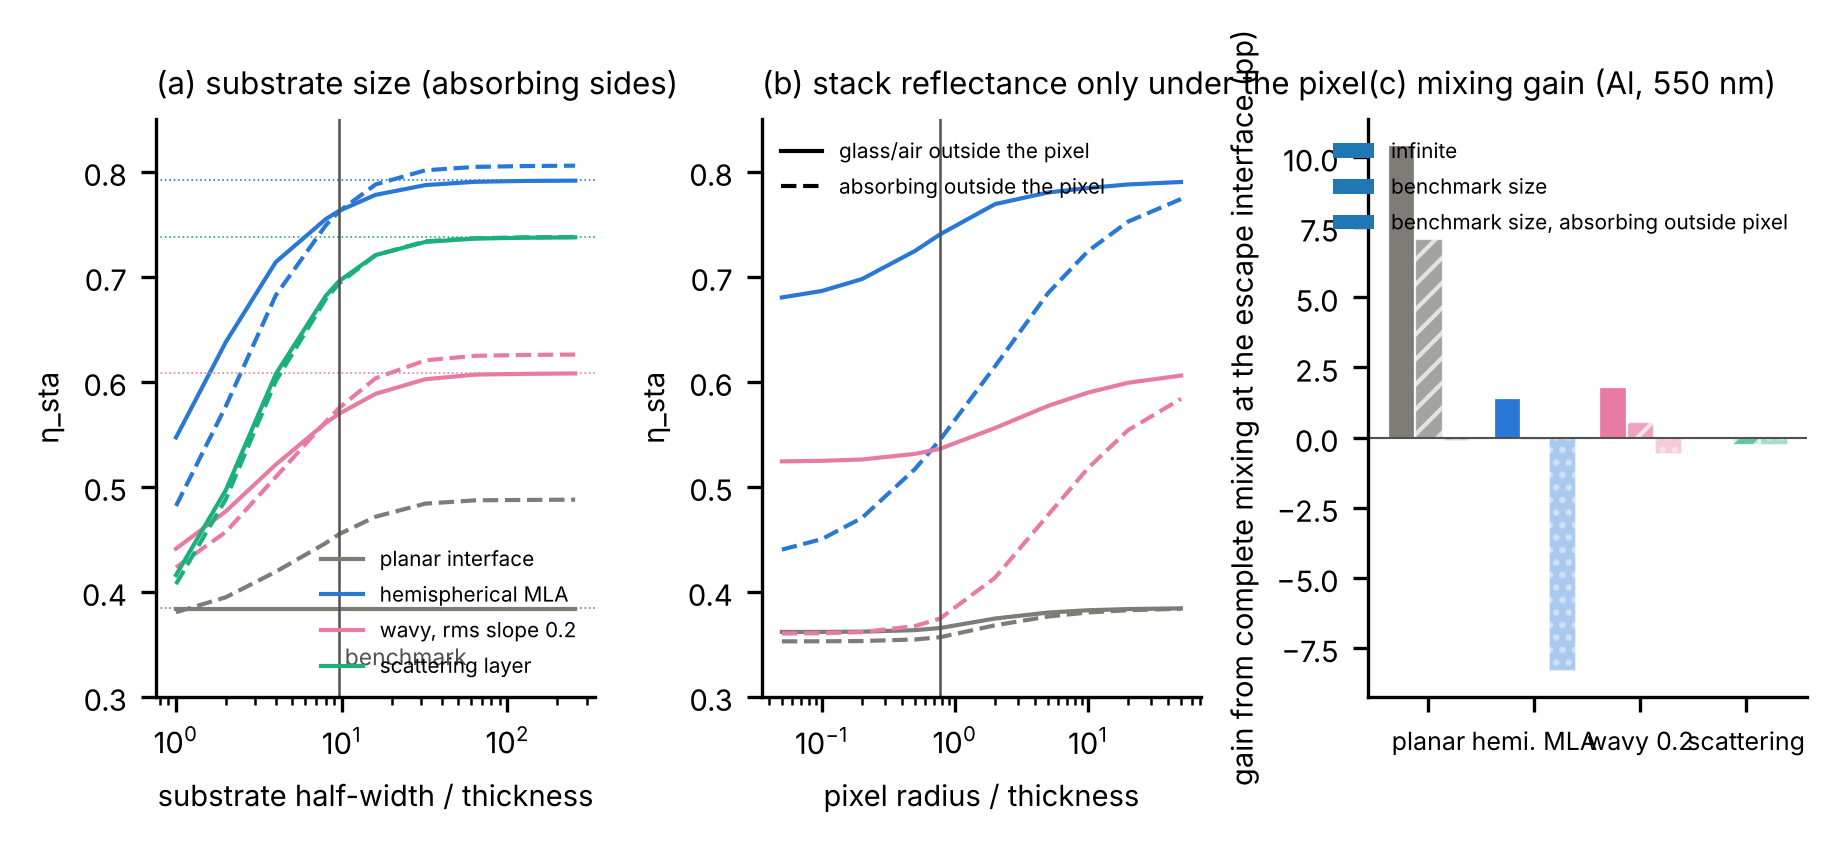
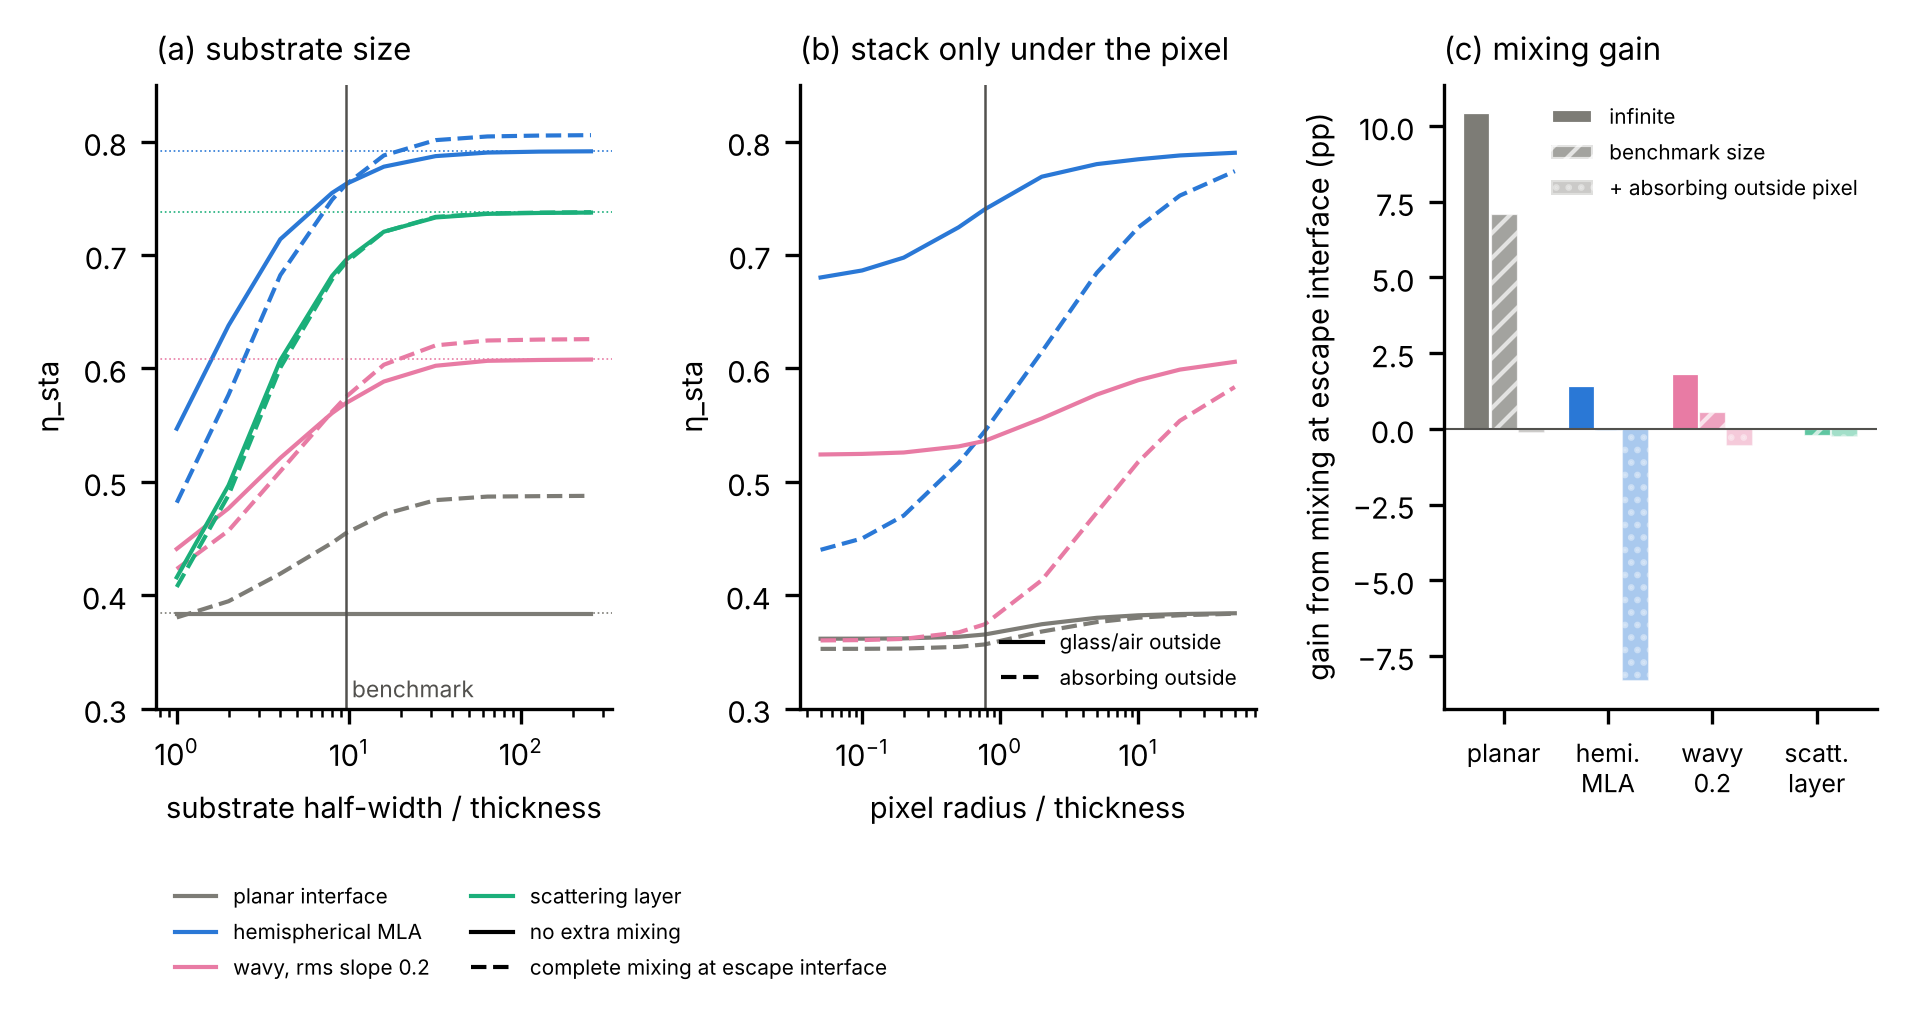
Finite-size model: rerun with fixed side-face modes, redraw Fig. S9
Claude-Session: https://claude.ai/code/session_01YWogpr6EEdWobKwLNCqjUn

diff --git a/selectivity/fig_finite_size.py b/selectivity/fig_finite_size.py
@@ -6,7 +6,7 @@ exec(src[src.index('def save_xlsx'):src.index('\n\n', src.index('def save_xlsx')
 D = json.load(open('data/finite_size.json'))
 NM = {'planar': ('planar', 'planar interface'), 'MLA hemi_total': ('MLA hemi', 'hemispherical MLA'),
       'W_slope0.2': ('wavy', 'wavy, rms slope 0.2'), 'scatter g0.8_t1.0': ('scatter', 'scattering layer')}
-fig, ax = plt.subplots(1, 3, figsize=(7.1, 2.5), gridspec_kw=dict(wspace=0.38)); sheets = []
+fig, ax = plt.subplots(1, 3, figsize=(7.4, 2.7), gridspec_kw=dict(wspace=0.42, width_ratios=[1, 1, 0.95])); sheets = []
 # (a) substrate size
 rows = []
 for nm, (c, lab) in NM.items():
@@ -16,10 +16,11 @@ for nm, (c, lab) in NM.items():
         ax[0].plot([r['W_over_t'] for r in z], [r['eta'] for r in z], ls, color=col, lw=1, label=lab if var == 'actual' else None)
         ax[0].axhline(z[0]['eta_inf'], color=col, lw=0.4, ls=':') if var == 'actual' else None
         rows += [[nm, var, r['az'], r['W_over_t'], r['eta'], r['edge'], r['eta_inf']] for r in z]
-ax[0].axvline(12.5 / 1.295, color=INK2, lw=0.6); ax[0].text(12.5 / 1.295 * 1.08, 0.33, 'benchmark', fontsize=5.5, color=INK2)
+ax[0].axvline(12.5 / 1.295, color=INK2, lw=0.6); ax[0].text(12.5 / 1.295 * 1.08, 0.31, 'benchmark', fontsize=5.5, color=INK2)
 ax[0].set_xscale('log'); ax[0].set_xlabel('substrate half-width / thickness'); ax[0].set_ylabel('η_sta')
-ax[0].set_ylim(0.3, 0.85); ax[0].set_title('(a) substrate size (glass/air sides)', loc='left')
-ax[0].legend(fontsize=5, frameon=False, loc='lower right')
+ax[0].set_ylim(0.3, 0.85); ax[0].set_title('(a) substrate size', loc='left')
+ax[0].plot([], [], 'k-', lw=1, label='no extra mixing'); ax[0].plot([], [], 'k--', lw=1, label='complete mixing at escape interface')
+ax[0].legend(fontsize=5, frameon=False, loc='upper left', bbox_to_anchor=(0.0, -0.25), ncol=2)
 sheets.append(('a_size', ['structure', 'variant', 'azimuth', 'W/t', 'eta', 'side loss', 'eta_infinite'], rows))
 # (b) stack reflectance only under the emitting disc
 rows = []
@@ -29,10 +30,10 @@ for nm in ('planar', 'MLA hemi_total', 'W_slope0.2'):
         z = sorted([r for r in D['pixel'] if r['structure'] == nm and r['variant'] == 'actual' and r['outside'] == outside], key=lambda r: r['a_over_t'])
         ax[1].plot([r['a_over_t'] for r in z], [r['eta'] for r in z], ls, color=col, lw=1)
     rows += [[r['structure'], r['variant'], r['outside'], r['a_over_t'], r['eta'], r['edge'], r['eta_inf']] for r in D['pixel'] if r['structure'] == nm]
-ax[1].plot([], [], 'k-', lw=1, label='glass/air outside the pixel'); ax[1].plot([], [], 'k--', lw=1, label='absorbing outside the pixel')
+ax[1].plot([], [], 'k-', lw=1, label='glass/air outside'); ax[1].plot([], [], 'k--', lw=1, label='absorbing outside')
 ax[1].axvline(1 / 1.295, color=INK2, lw=0.6)
 ax[1].set_xscale('log'); ax[1].set_xlabel('pixel radius / thickness'); ax[1].set_ylabel('η_sta'); ax[1].set_ylim(0.3, 0.85)
-ax[1].set_title('(b) stack reflectance only under the pixel', loc='left'); ax[1].legend(fontsize=5, frameon=False, loc='upper left')
+ax[1].set_title('(b) stack only under the pixel', loc='left'); ax[1].legend(fontsize=5, frameon=False, loc='lower right')
 sheets.append(('b_pixel', ['structure', 'variant', 'outside', 'a/t', 'eta', 'side loss', 'eta_infinite'], rows))
 # (c) gain from complete reciprocal mixing at the escape interface: infinite vs finite
 rows = []; labs = []; xs = np.arange(4)
@@ -45,10 +46,10 @@ for k, nm in enumerate(NM):
     for j, (v, hatch) in enumerate(zip(vals, ('', '////', '....'))):
         ax[2].bar(k + (j - 1) * 0.26, v, 0.25, color=CLS[NM[nm][0]][0], alpha=1 - 0.3 * j, hatch=hatch, edgecolor='white', lw=0.3)
     rows.append([nm] + vals)
-for j, (lab, hatch) in enumerate((('infinite', ''), ('benchmark size', '////'), ('benchmark size, absorbing outside pixel', '....'))):
-    ax[2].bar([], [], color='#9c9b96', alpha=1 - 0.3 * j, hatch=hatch, edgecolor='white', label=lab)
-ax[2].axhline(0, color=INK2, lw=0.5); ax[2].set_xticks(xs); ax[2].set_xticklabels(['planar', 'hemi. MLA', 'wavy 0.2', 'scattering'], fontsize=6)
-ax[2].set_ylabel('gain from complete mixing at the escape interface (pp)'); ax[2].set_title('(c) mixing gain (Al, 550 nm)', loc='left')
+for j, (lab, hatch) in enumerate((('infinite', ''), ('benchmark size', '////'), ('+ absorbing outside pixel', '....'))):
+    ax[2].bar([0], [0], 0, color='#7d7c76', alpha=1 - 0.3 * j, hatch=hatch, edgecolor='white', label=lab)
+ax[2].axhline(0, color=INK2, lw=0.5); ax[2].set_xticks(xs); ax[2].set_xticklabels(['planar', 'hemi.\nMLA', 'wavy\n0.2', 'scatt.\nlayer'], fontsize=6)
+ax[2].set_ylabel('gain from mixing at escape interface (pp)'); ax[2].set_title('(c) mixing gain', loc='left')
 ax[2].legend(fontsize=5, frameon=False, loc='upper right')
 sheets.append(('c_mixing_gain', ['structure', 'infinite (pp)', 'benchmark size (pp)', 'benchmark size, absorbing outside pixel (pp)'], rows))
 fig.savefig(f'{OUT}/figS_finite_size.png', dpi=300, bbox_inches='tight'); fig.savefig(f'{OUT}/figS_finite_size.pdf', bbox_inches='tight')
